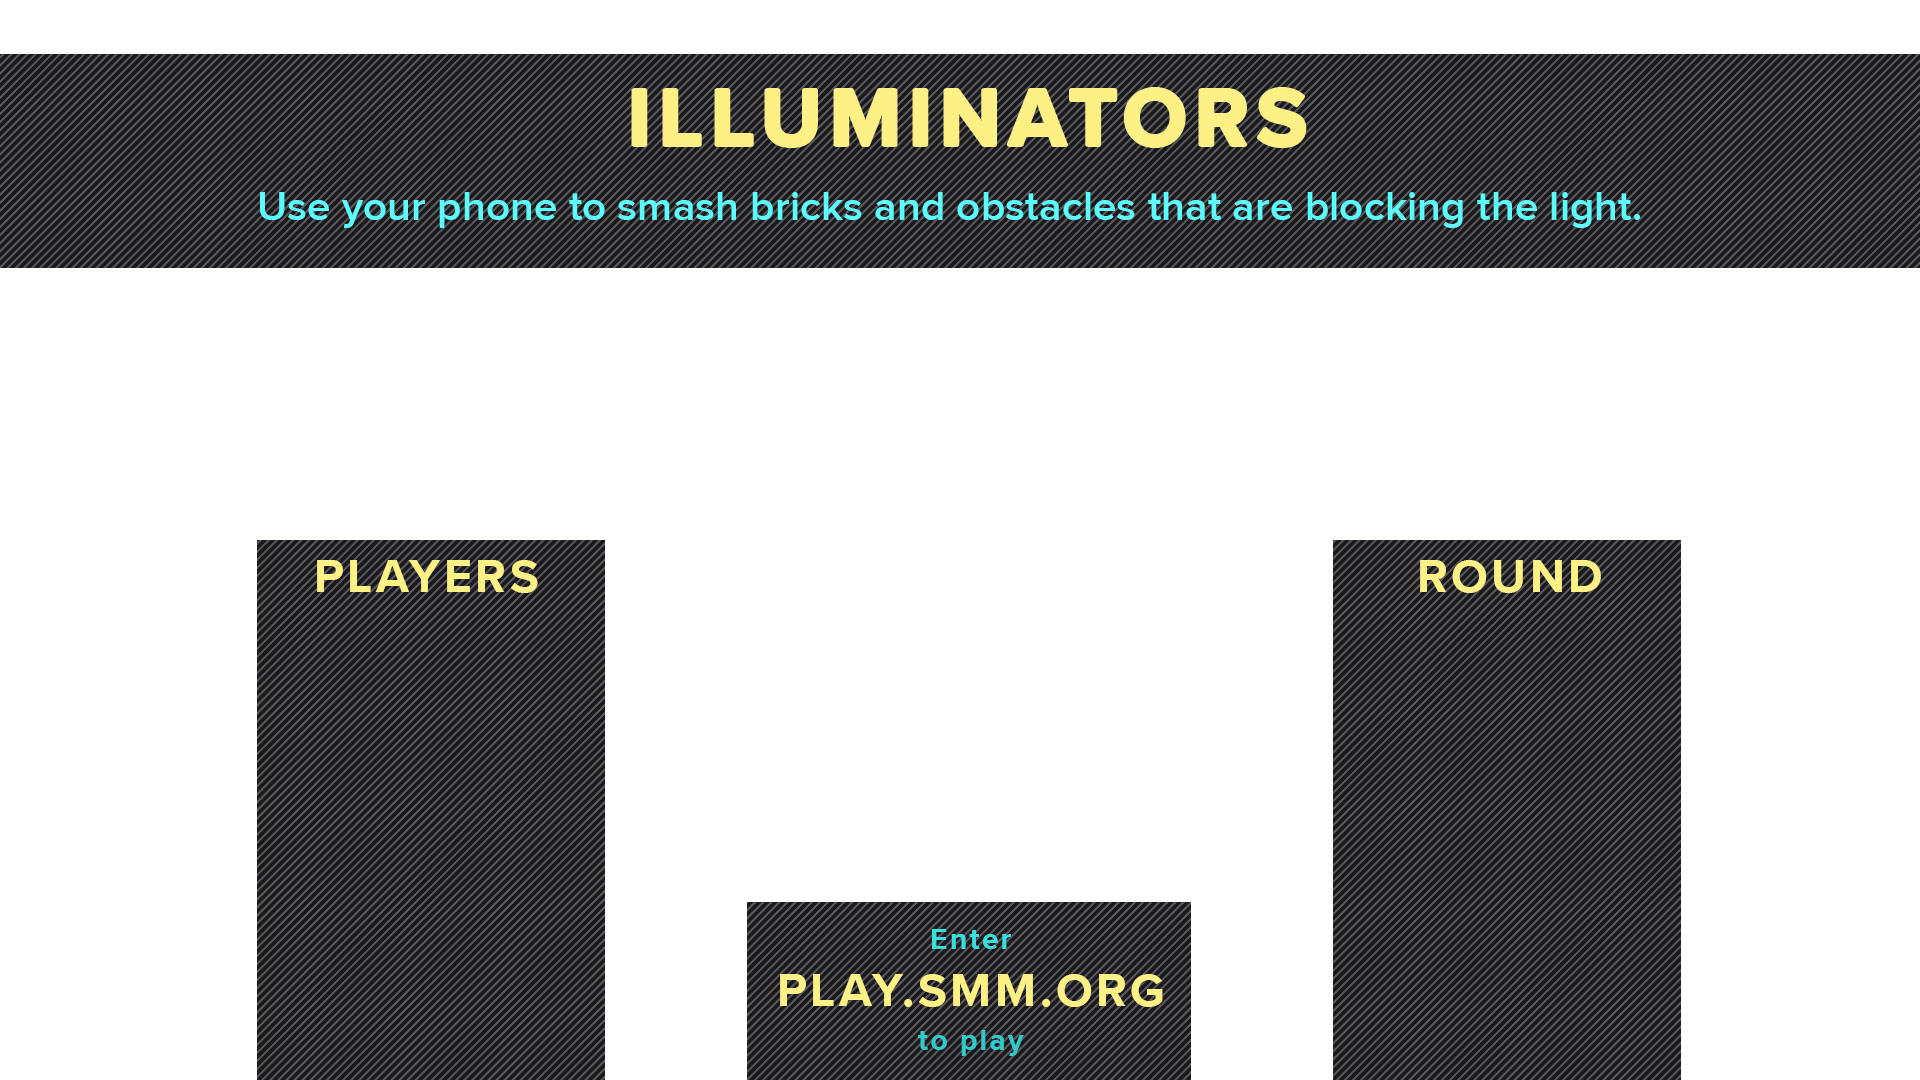
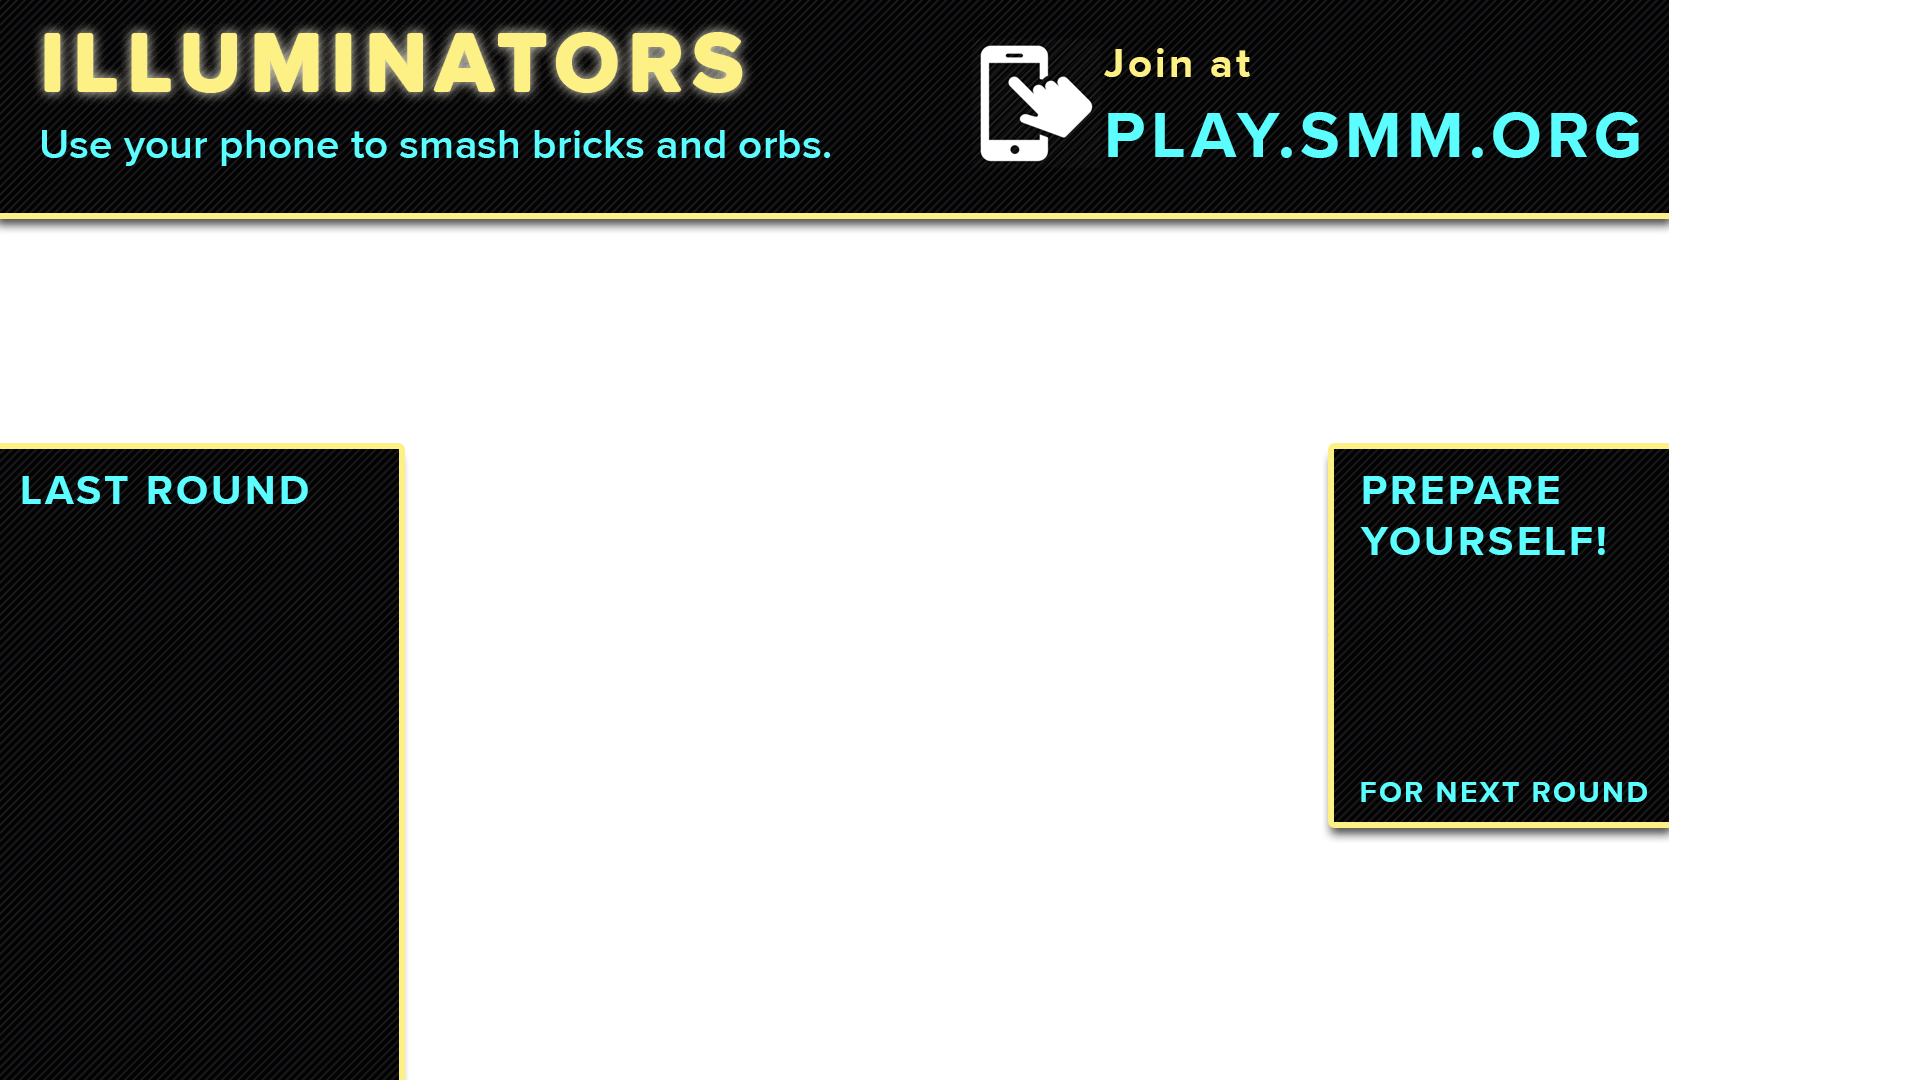
Random spawn point. round screen css

diff --git a/public/js/Game.js b/public/js/Game.js
@@ -1,7 +1,7 @@
 function Game() {
 
-  var ROUND_DURATION = 80; // 75
-  var LOBBY_DURATION = 20; // 35
+  var ROUND_DURATION = 15; // 75
+  var LOBBY_DURATION = 10; // 35
 
   var _this = this;
   var currentFrameRequest = 0;
@@ -107,7 +107,9 @@ function Game() {
 
     var userColor = parseInt(userdata.usercolor.replace(/^#/, ''), 16);
 
-    var flyerGroup = allFlyersGroup.create(775, 380, '');
+    var spawnX = Math.round(Math.random() * 600) + 600;
+    var spawnY = 300 - Math.round(Math.random() * 150);
+    var flyerGroup = allFlyersGroup.create(spawnX, spawnY, '');
     flyerGroup.width = 50;
     flyerGroup.height = 70;
 
@@ -134,11 +136,6 @@ function Game() {
 
     flyerRange.width = 150;
     flyerRange.height = 100;
-
-    // game.physics.ninja.enableAABB(flyerRange, false);
-    // flyerRange.body.immovable = true;
-    // flyerRange.body.gravityScale = 0;
-    // flyerRange.body.moves = false;
 
     // Combine into single flyer sprite
     flyerGroup.addChild(flyerRange);
@@ -291,10 +288,10 @@ function Game() {
 
   function crownNewWinner(flyer) {
     // If not already wearing crown, add.
-   /* if (flyer.phaserBody.sprite.children.indexOf(winnerCrown) == -1) {
-      // sprite is a part of groupA
-      flyer.phaserBody.sprite.addChild(winnerCrown);
-    }*/
+    /* if (flyer.phaserBody.sprite.children.indexOf(winnerCrown) == -1) {
+       // sprite is a part of groupA
+       flyer.phaserBody.sprite.addChild(winnerCrown);
+     }*/
   }
 
   function flyerBrickSwipe(f) {
@@ -376,18 +373,18 @@ function Game() {
 
     // brickEmitter.start(true, 5500, null, 10);
 
-    brickEmitter.explode(6666, Math.round(Math.random() * 2 + 3));
+    brickEmitter.explode(5555, Math.round(Math.random() * 2 + 3));
 
   }
 
   function phaserLevelReset() {
 
     // Revive all killed bricks.
-/*    for (var i = brickPlatforms.children.length - 1; i >= 0; i--) {
-      var brick = brickPlatforms.children[i];
-      brick.revive();
-      brick.loadTexture('block');
-    }*/
+    /*    for (var i = brickPlatforms.children.length - 1; i >= 0; i--) {
+          var brick = brickPlatforms.children[i];
+          brick.revive();
+          brick.loadTexture('block');
+        }*/
 
     // Generate brick tile pattern.
     createBrickPlatforms();
@@ -926,8 +923,12 @@ function Game() {
     diam *= scale;
 
     // Release point
-    var startX = Math.random() * (stageBounds.right - 60) + 30;
+    // var startX = Math.random() * (stageBounds.right - 60) + 30;
+    // var startY = Math.random() * (stageBounds.floor - 60) + 30;
+
+    var startX = Math.random() * (game.width - 60) + 30;
     var startY = Math.random() * (stageBounds.floor - 60) + 30;
+
     TweenLite.set($(aDiv), { css: {scale:scale, left:startX, top:startY } });
 
     var health = roundToNearest(diam / 2, 5);

diff --git a/public/css/screen.css b/public/css/screen.css
@@ -5,7 +5,7 @@
 }
 
 body {
-    color:#eee;
+    color:#efefef;
     font: 13px Helvetica, Arial;
     background: #000;
 }
@@ -29,11 +29,12 @@ body {
 #game-countdown {
     position: absolute;
     text-align: center;
-    right: 0px;
-    bottom: 0px;
+    right: 27px;
+    bottom: 475px;
+    width: 300px;
     font-size: 11em;
     padding: 5px 20px;
-    background: black;
+    /*background: black;*/
 }
 
 #join-msg{
@@ -57,9 +58,9 @@ body {
 #new-round #round-countdown {
     position: absolute;
     text-align: center;
-    right: 265px;
+    right: 327px;
     width: 300px;
-    top: 610px;
+    top: 582px;
     font-size: 11em;
     color: #fff;
 }
@@ -67,7 +68,7 @@ body {
 #new-round #player-list {
     position: absolute;
     text-align: left;
-    left: 300px;
-    top: 615px;
+    left: 60px;
+    top: 525px;
     font-size: 25px;
 }

diff --git a/screen.html b/screen.html
@@ -94,7 +94,7 @@
   <body>
     <div id="stage"></div>
     <h2 id="game-countdown"></h2>
-    <h3 id="join-msg">Visit<br/>play.smm.org</h3>
+    <!-- <h3 id="join-msg">Visit<br/>play.smm.org</h3> -->
     <div id="new-round">
       <img src="/img/new-round-screen.png"/>
       <h2 id="round-countdown">XX</h2>
